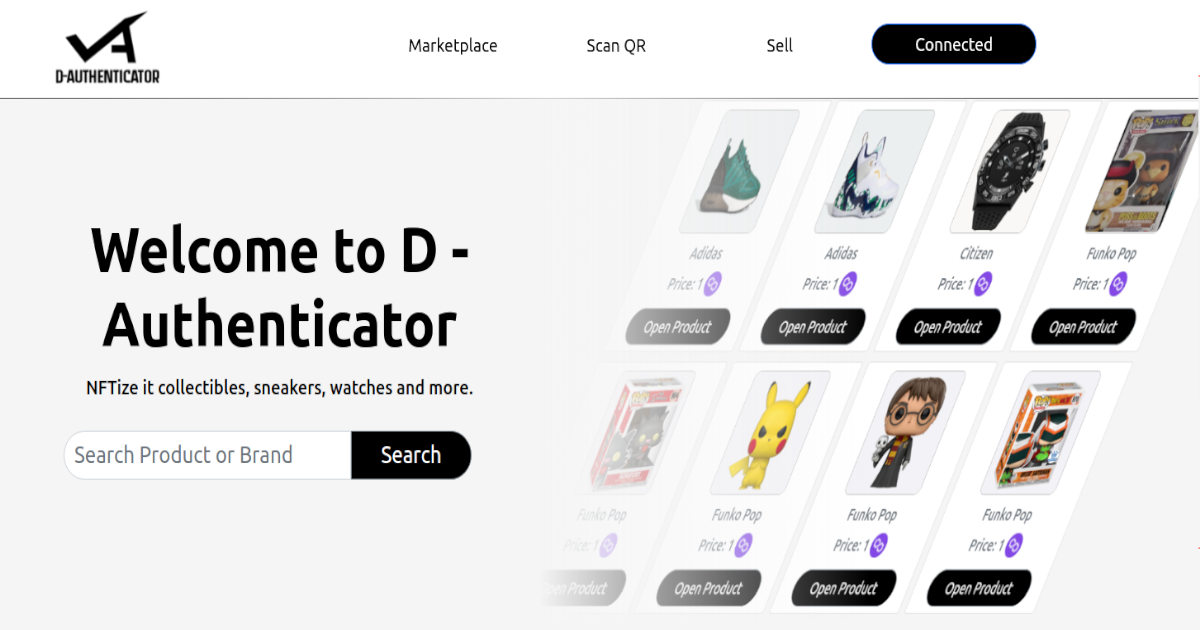
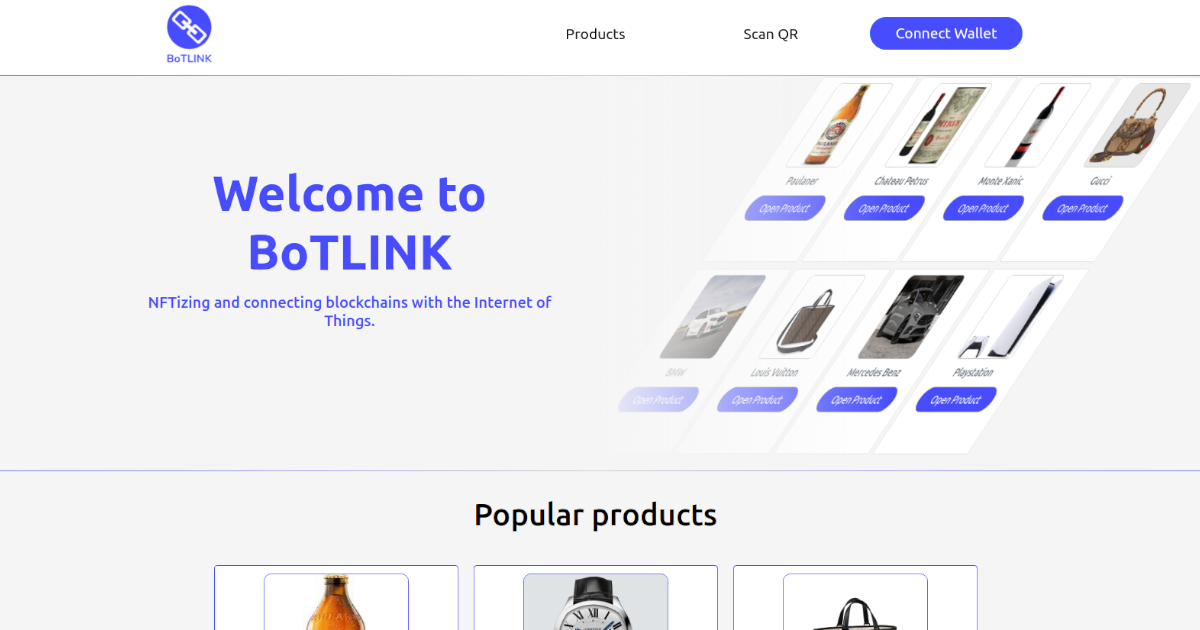
commit

diff --git a/WebPage/src/contracts/nftContract.js b/WebPage/src/contracts/nftContract.js
@@ -1,11 +1,37 @@
 exports.content = () =>{ return `
-
 // SPDX-License-Identifier: MIT
 
 pragma solidity ^0.8.4;
 
 import 'https://github.com/OpenZeppelin/openzeppelin-contracts/blob/master/contracts/token/ERC721/ERC721.sol';
 import 'https://github.com/OpenZeppelin/openzeppelin-contracts/blob/master/contracts/token/ERC721/extensions/ERC721URIStorage.sol';
+import 'https://github.com/smartcontractkit/chainlink/blob/develop/contracts/src/v0.8/VRFConsumerBase.sol';
+
+contract RandomNumberConsumer is VRFConsumerBase {
+    
+    bytes32 internal keyHash;
+    uint256 internal fee;
+    uint256 public randomResult;
+    
+    constructor() 
+        VRFConsumerBase(
+            0x8C7382F9D8f56b33781fE506E897a4F1e2d17255, // VRF Coordinator
+            0x326C977E6efc84E512bB9C30f76E30c160eD06FB  // LINK Token
+        )
+    {
+        keyHash = 0x6e75b569a01ef56d18cab6a8e71e6600d6ce853834d4a5748b720d06f878b3a4;
+        fee = 0.0001 * 10 ** 18; // 0.0001 LINK (Varies by network)
+    }
+    
+    function getRandomNumber() public returns (bytes32 requestId) {
+        require(LINK.balanceOf(address(this)) >= fee, "Not enough LINK - fill contract with faucet");
+        return requestRandomness(keyHash, fee);
+    }
+
+    function fulfillRandomness(bytes32 requestId, uint256 randomness) internal override {
+        randomResult = randomness;
+    }
+}
 
 contract MyToken is ERC721URIStorage {
     
@@ -16,6 +42,8 @@ contract MyToken is ERC721URIStorage {
     string public location = "";
     uint256 public price = 0;
     bool public flag = false;
+    address generatorAddress = 0x7b6ddb7B1F12C56db11bB36b35AB6cE128B664ba;
+    RandomNumberConsumer Test = RandomNumberConsumer(generatorAddress);
     
     modifier onlyOwner{
         require(msg.sender == owner);
@@ -45,6 +73,14 @@ contract MyToken is ERC721URIStorage {
        mem_location = _location;
        _transfer(owner, actualAddress, 1);
        owner = actualAddress;
+    }
+
+    function generateRandomValue() public returns (bytes32 requestId) {
+        return Test.getRandomNumber();
+    }
+
+    function getRandomValue() public view returns (uint256 randomValue) {
+        return Test.randomResult();
     }
 }
 `}
@@ -208,6 +244,19 @@ exports.abi = () => {
             "type": "function"
         },
         {
+            "inputs": [],
+            "name": "generateRandomValue",
+            "outputs": [
+                {
+                    "internalType": "bytes32",
+                    "name": "requestId",
+                    "type": "bytes32"
+                }
+            ],
+            "stateMutability": "nonpayable",
+            "type": "function"
+        },
+        {
             "inputs": [
                 {
                     "internalType": "uint256",
@@ -221,6 +270,19 @@ exports.abi = () => {
                     "internalType": "address",
                     "name": "",
                     "type": "address"
+                }
+            ],
+            "stateMutability": "view",
+            "type": "function"
+        },
+        {
+            "inputs": [],
+            "name": "getRandomValue",
+            "outputs": [
+                {
+                    "internalType": "uint256",
+                    "name": "randomValue",
+                    "type": "uint256"
                 }
             ],
             "stateMutability": "view",
@@ -531,5 +593,5 @@ exports.abi = () => {
   };
   
   exports.bytecode = () => {
[2 lines of base64/hex data omitted]
   }

diff --git a/WebPage/src/components/footer.js b/WebPage/src/components/footer.js
@@ -9,7 +9,7 @@ import logo from '../assets/logof.png';
 import ipfs from '../assets/IPFS.png';
 import polygon from '../assets/polygon.png';
 import moralis from '../assets/moralis.png';
-import chainlink from  '../assets/chainlink.png';
+import chainlink from '../assets/chainlink.png';
 import { connect } from 'react-redux';
 
 class Footer extends Component {
@@ -58,25 +58,20 @@ class Footer extends Component {
                                 <Row>
                                     <Col>
                                         <FaTwitter
-                                            onClick={() => window.open("https://twitter.com/DAuthenticator", "_blank")}
+                                            onClick={() => window.open("https://twitter.com/BoTLINK_", "_blank")}
                                             style={{ fontSize: "4rem", color: "#1DA1F2" }}
                                         />
                                     </Col>
-                                    <Col>
-                                        <FaInstagram
-                                            onClick={() => window.open("https://www.instagram.com/dauthenticator", "_blank")}
-                                            style={{ fontSize: "4rem", color: "#cd486b" }}
-                                        />
-                                    </Col>
+
                                     <Col>
                                         <FaFacebook
-                                            onClick={() => window.open("https://www.facebook.com/D-Authenticator-104120638767833", "_blank")}
+                                            onClick={() => window.open("https://www.facebook.com/Botlink-102160675641657", "_blank")}
                                             style={{ fontSize: "4rem", color: "#4267B2" }}
                                         />
                                     </Col>
                                     <Col>
                                         <FaYoutube
-                                            onClick={() => window.open("https://youtu.be/Q0_sihBl1NI", "_blank")}
+                                            onClick={() => window.open("https://www.youtube.com/watch?v=Tymdr2j9Dug", "_blank")}
                                             style={{ fontSize: "4rem", color: "#FF0000" }}
                                         />
                                     </Col>
@@ -118,7 +113,7 @@ class Footer extends Component {
                                                 </a>
                                             </Col>
                                             <Col>
-                                                <a className="nostyle" href="https://github.com/altaga/D-Authenticator" target="_blank" rel="noopener noreferrer">
+                                                <a className="nostyle" href="https://github.com/EddOliver/BoTLINK" target="_blank" rel="noopener noreferrer">
                                                     FAQ's
                                                 </a>
                                             </Col>
@@ -130,28 +125,22 @@ class Footer extends Component {
                                                 Connect
                                             </div>
                                             <Col>
-                                                <a className="nostyle" href="https://www.instagram.com/dauthenticator/" target="_blank" rel="noopener noreferrer">
-                                                    Instagram
-                                                </a>
-                                            </Col>
-
-                                            <Col>
-                                                <a className="nostyle" href="https://twitter.com/DAuthenticator" target="_blank" rel="noopener noreferrer">
+                                                <a className="nostyle" href="https://twitter.com/BoTLINK_" target="_blank" rel="noopener noreferrer">
                                                     Twitter
                                                 </a>
                                             </Col>
                                             <Col>
-                                                <a className="nostyle" href="https://youtu.be/Q0_sihBl1NI" target="_blank" rel="noopener noreferrer">
+                                                <a className="nostyle" href="https://www.youtube.com/watch?v=Tymdr2j9Dug" target="_blank" rel="noopener noreferrer">
                                                     YouTube
                                                 </a>
                                             </Col>
                                             <Col>
-                                                <a className="nostyle" href="https://www.facebook.com/D-Authenticator-104120638767833" target="_blank" rel="noopener noreferrer">
+                                                <a className="nostyle" href="hhttps://www.facebook.com/Botlink-102160675641657" target="_blank" rel="noopener noreferrer">
                                                     Facebook
                                                 </a>
                                             </Col>
                                             <Col>
-                                                <a className="nostyle" href="mailto:nftondemand@yandex.com">
+                                                <a className="nostyle" href="mailto:botlinknft@protonmail.com">
                                                     Contact
                                                 </a>
                                             </Col>

diff --git a/WebPage/public/index.html b/WebPage/public/index.html
@@ -9,18 +9,18 @@
     <link rel="apple-touch-icon" href="%PUBLIC_URL%/logo192.png" />
     <meta property="og:title" content="BoTLINK">
     <meta property="og:description" content="Welcome to D - Authenticator, NFTize it collectibles, sneakers, watches and more.">
-    <meta property="og:url" content="https://www.BoTLINK.online">
-    <meta property="og:image" content="https://www.BoTLINK.online/banner.png">
+    <meta property="og:url" content="https://botlink.site">
+    <meta property="og:image" content="https://botlink.site/banner.png">
     <meta name="twitter:title" content="BoTLINK">
     <meta name="twitter:description" content="Welcome to D - Authenticator, NFTize it collectibles, sneakers, watches and more.">
     <meta name="twitter:card" content="summary_large_image">
-    <meta name="twitter:image" content="https://www.BoTLINK.online/banner.png">
+    <meta name="twitter:image" content="https://botlink.site/banner.png">
     <link rel="shortcut icon" href="%PUBLIC_URL%/favicon.ico">
     <link rel="manifest" href="%PUBLIC_URL%/manifest.json" />
     <title>BoTLINK</title>
   </head>
   <body>
-    <noscript>Welcome to D - Authenticator, NFTize it collectibles, sneakers, watches and more..</noscript>
+    <noscript>BoTLINK is a platform that NFTizes offline assets and connects blockchains with the Internet of Things, powered by Polygon, Solana and Chainlink.</noscript>
     <div id="root"></div>
   </body>
 </html>
